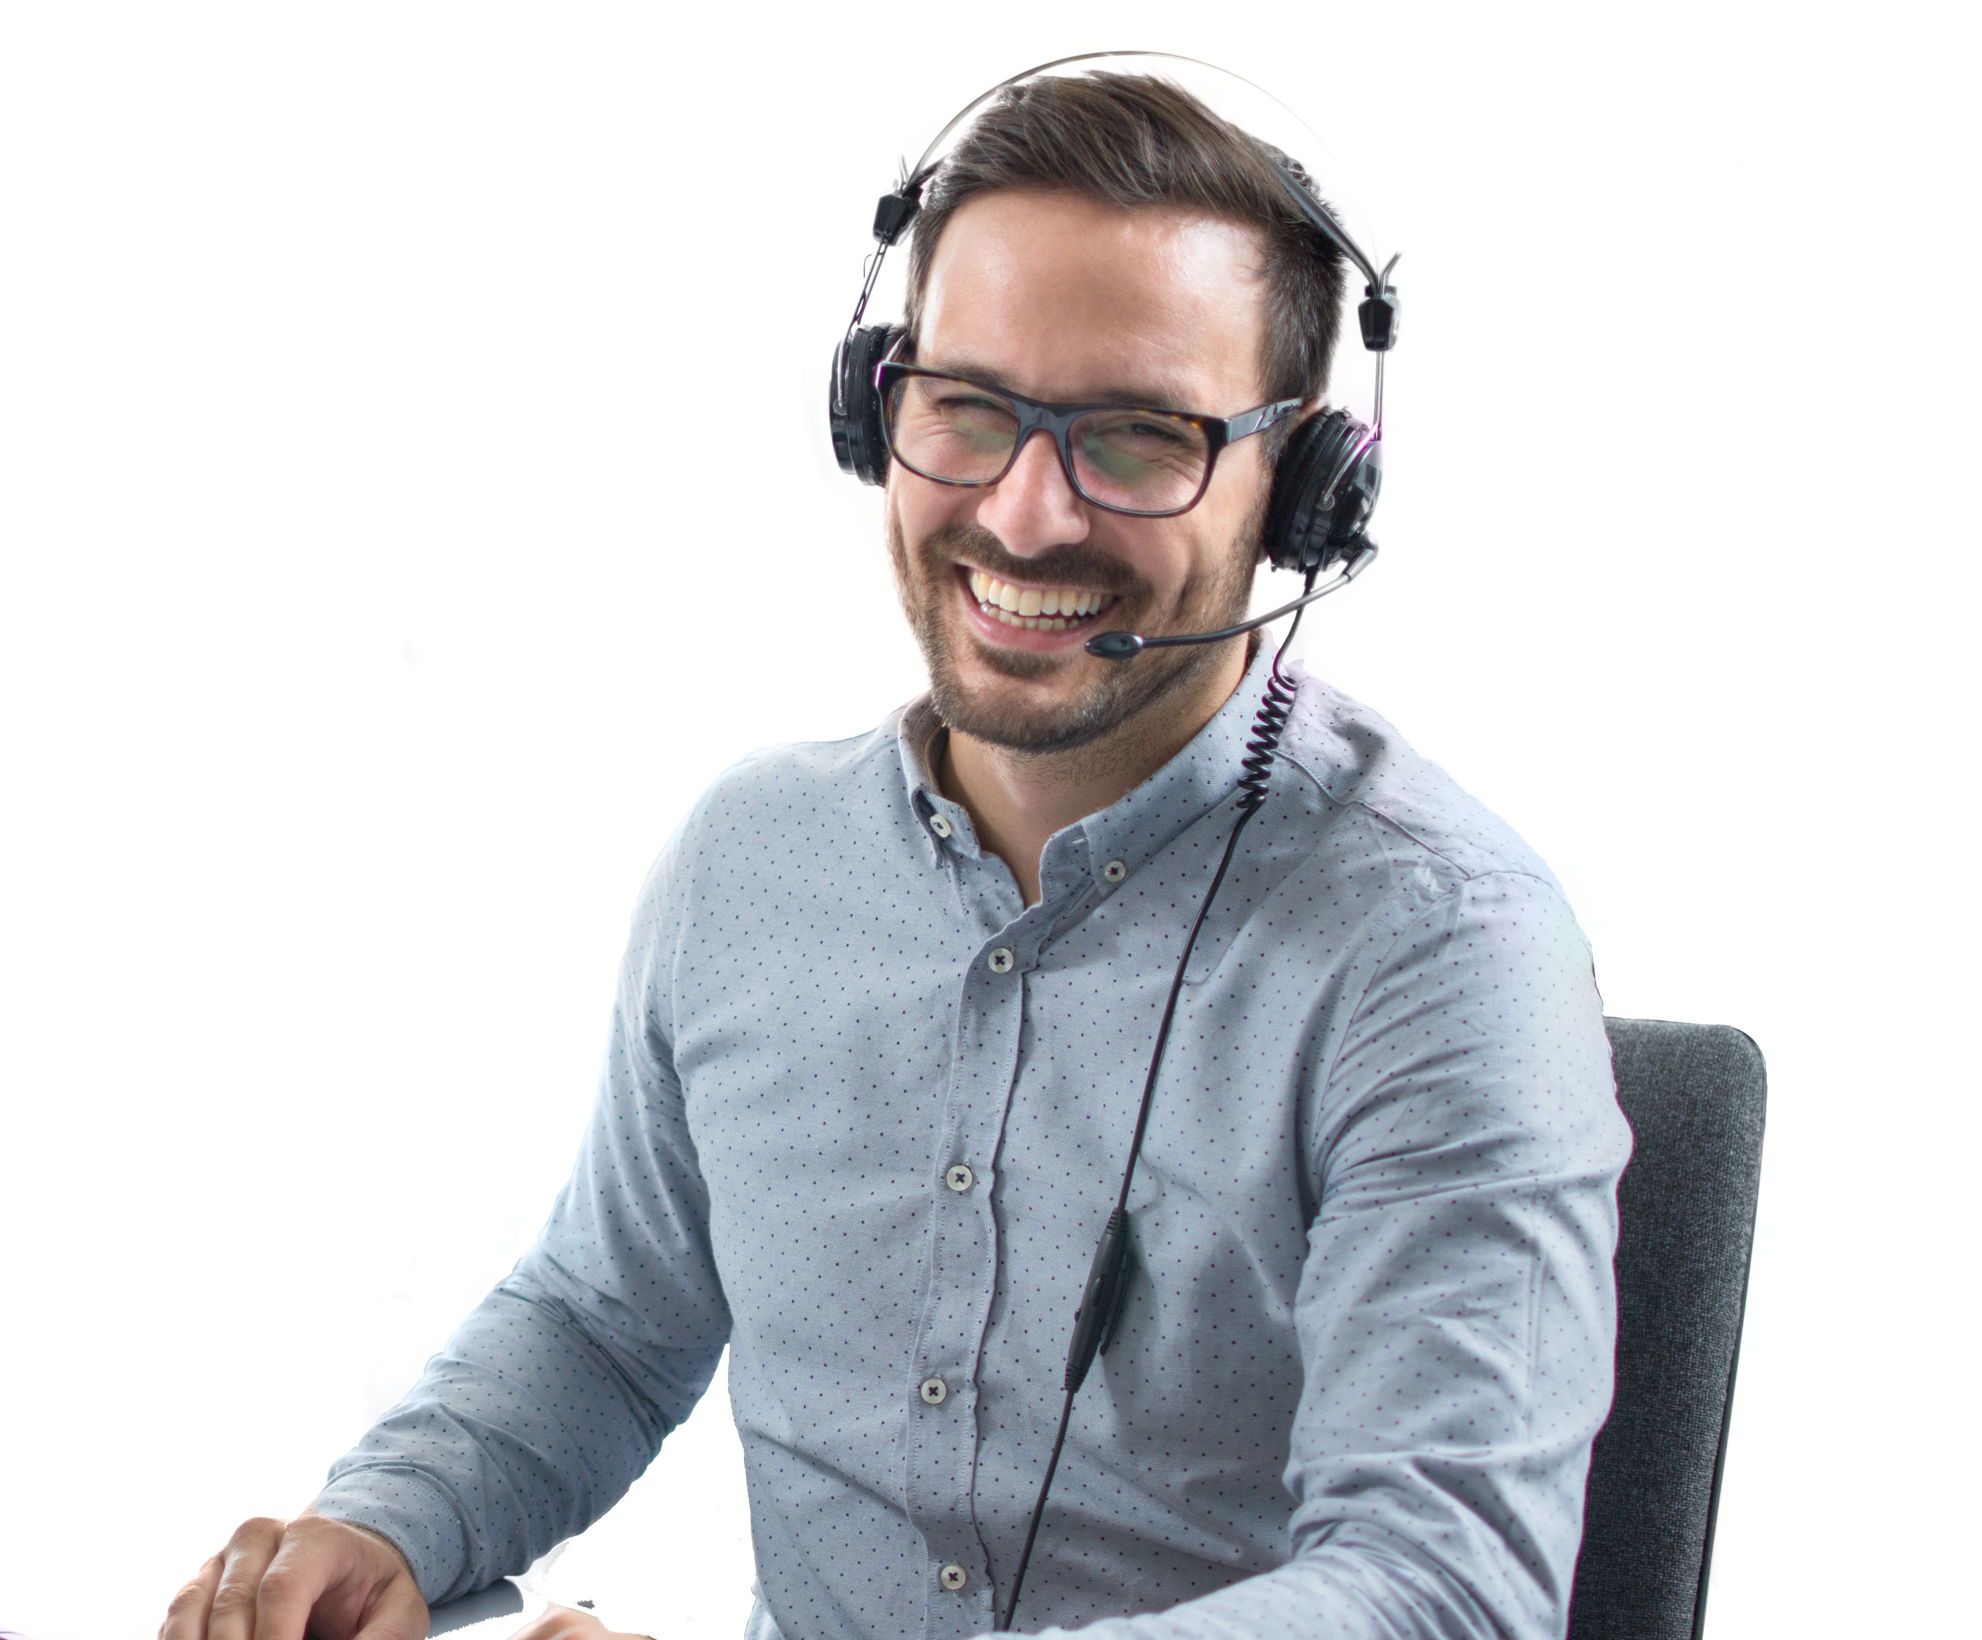
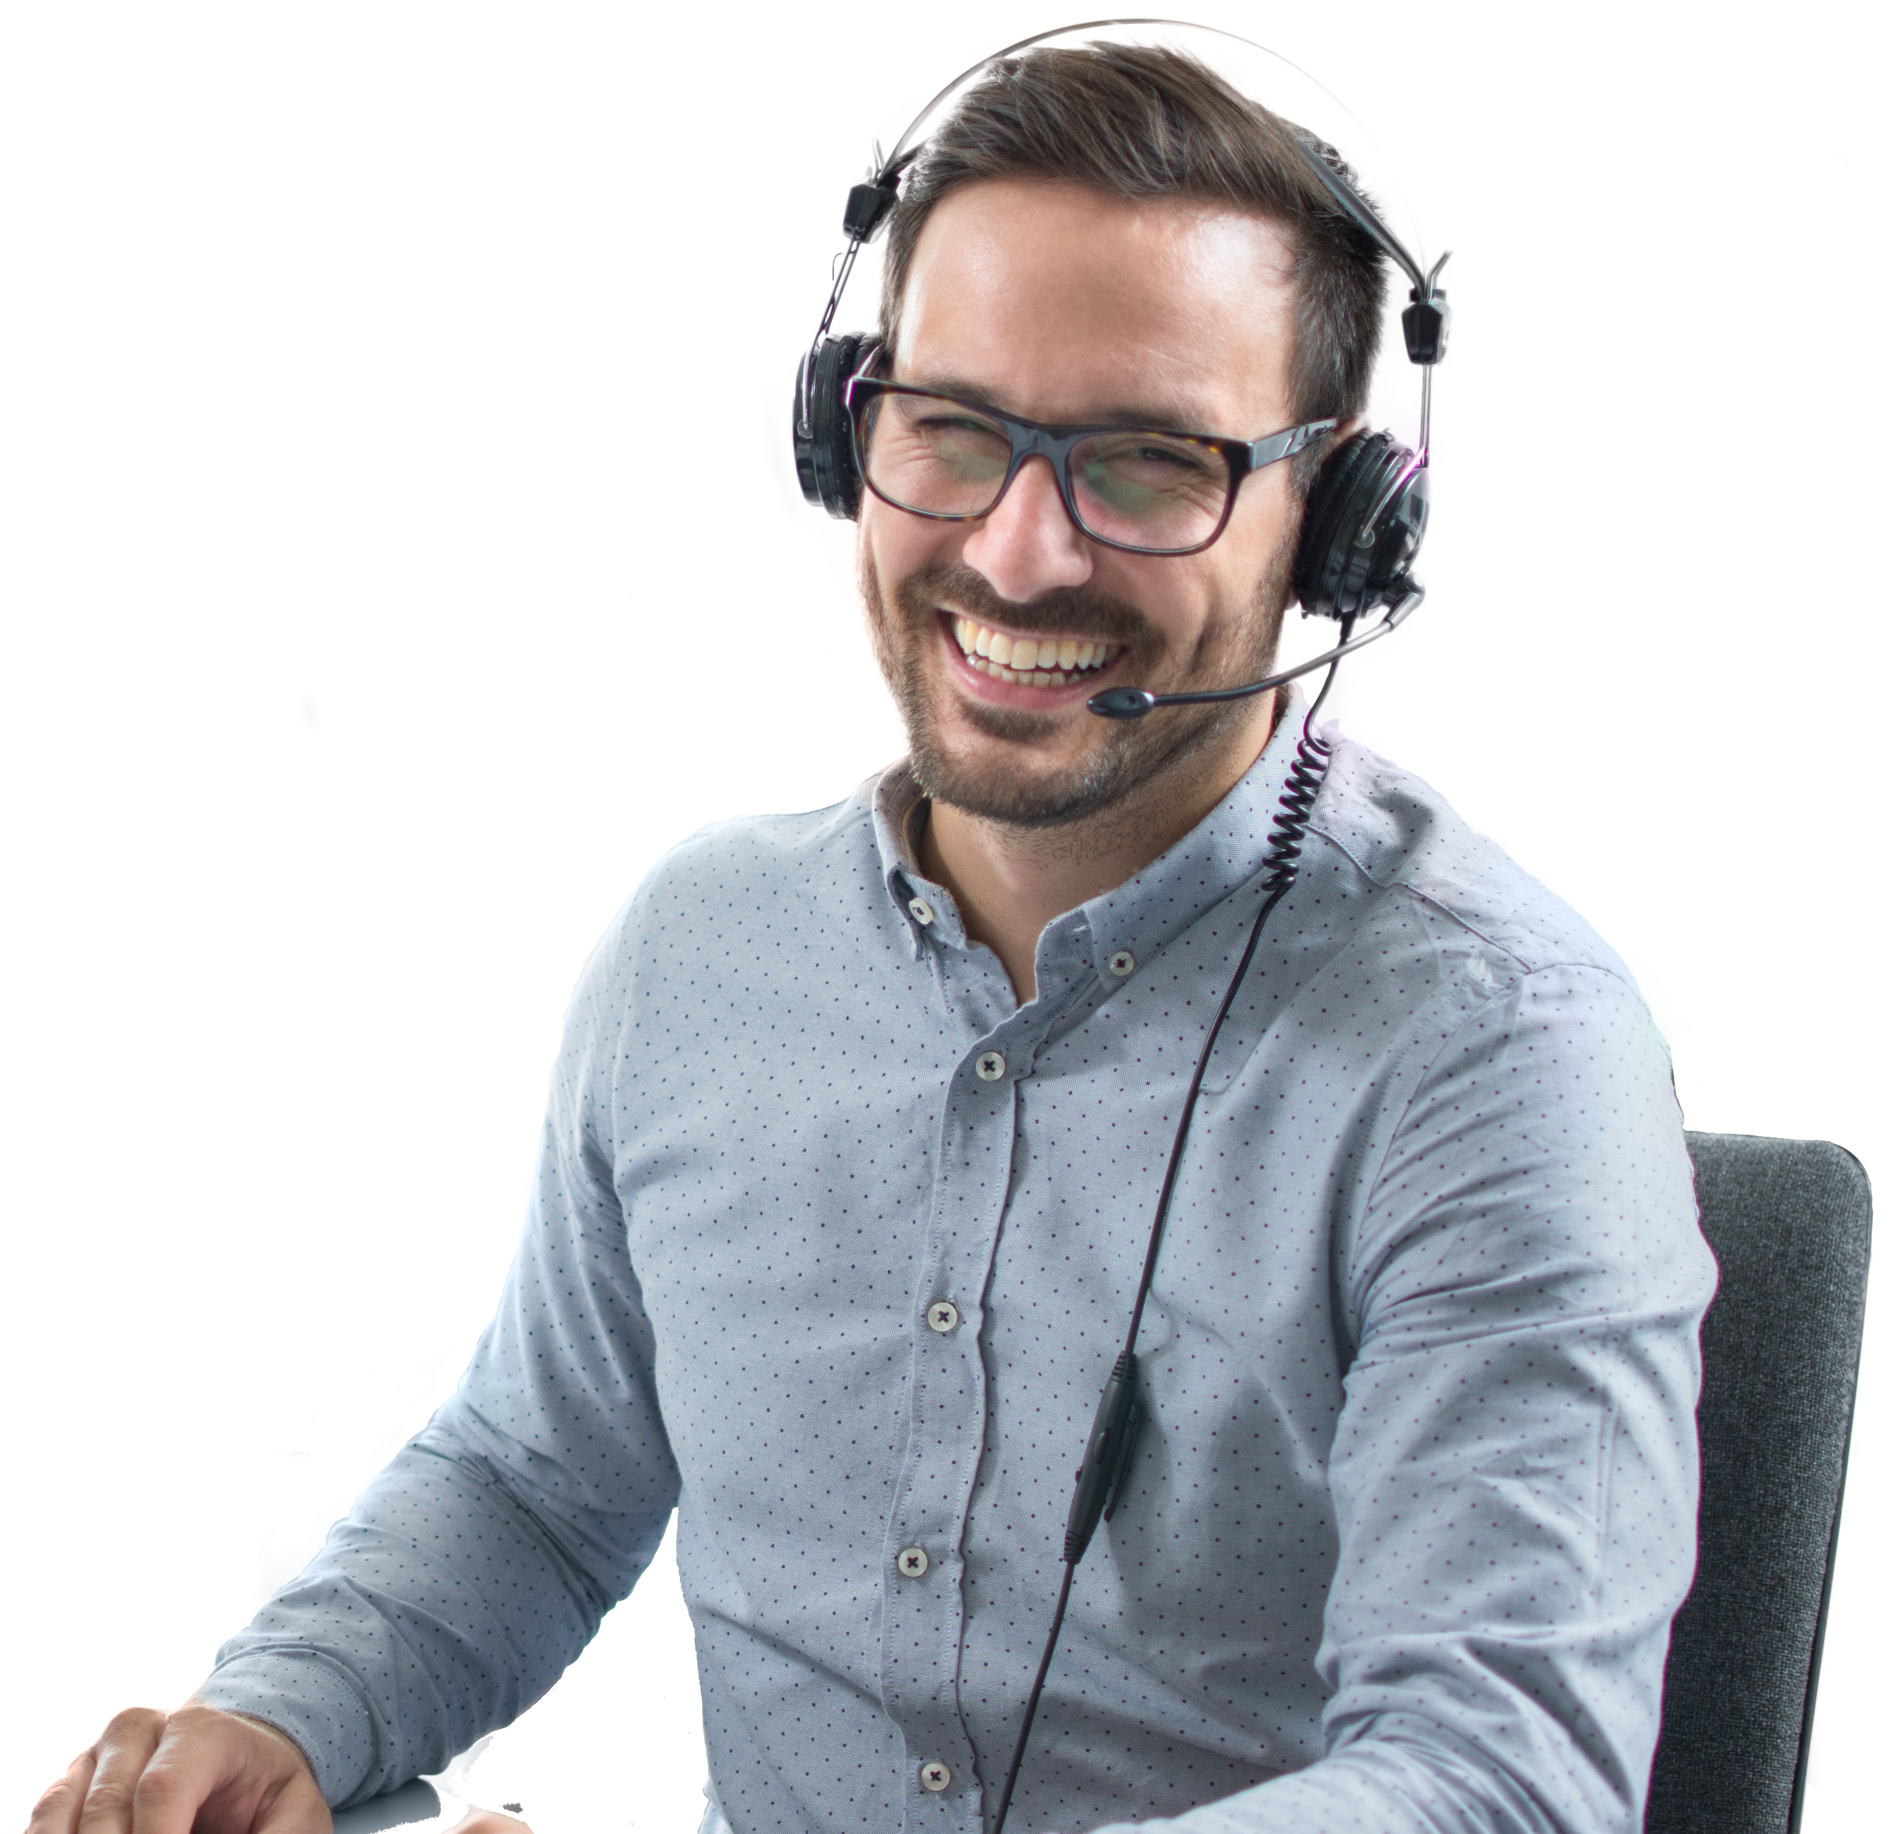
update operator images

diff --git a/index.html b/index.html
@@ -656,7 +656,7 @@
                                 bottom: 0px;
                                 right: 50%;
                                 width: 50%;
-                                max-width: 500px;
+                                max-width: 700px;
                             }
 
                             .pin_bottom_right {
@@ -778,7 +778,7 @@
                                                 style="min-height: 500px;">
                                                 <div>
                                                     <img class="pin_bottom_left_hero mx-auto mb-2"
-                                                        src="Images_2/Image_Nidia_DSO_Accounts_Hero_2019.png"
+                                                        src="Images_2/Image_Male_Operator_DSO_Accounts_Hero_2019.png"
                                                         alt="Friendly Help">
                                                 </div>
                                             </div>
@@ -806,7 +806,7 @@
                                                 style="min-height: 400px;">
                                                 <div>
                                                     <img class="pin_bottom mx-auto mb-2"
-                                                        src="Images_2/Image_Nidia_DSO_Accounts_Hero_2019.png"
+                                                        src="Images_2/Image_Male_Operator_DSO_Accounts_Hero_2019.png""
                                                         alt="Friendly Help">
                                                 </div>
                                             </div>
@@ -1239,7 +1239,7 @@
                                             <div class="w-full md:w-1/2 float-none sm:float-left px-4 pt-8 pb-0 mx-0 hidden md:block">
                                                 <div>
                                                     <img class="mx-auto pin_bottom_left"
-                                                        src="Images_2/Image_Male_Operator_DSO_Accounts_Hero_2019.png"
+                                                        src="Images_2/Image_Female_Operator_DSO_Accounts_Hero_2019.png"
                                                         alt="Phone Operator">
                                                 </div>
                                             </div>
@@ -1263,7 +1263,7 @@
                                                 style="min-height: 400px;">
                                                 <div>
                                                     <img class="pin_bottom mx-auto"
-                                                        src="Images_2/Image_Male_Operator_DSO_Accounts_Hero_2019.png"
+                                                        src="Images_2/Image_Female_Operator_DSO_Accounts_Hero_2019.png"
                                                         alt="Friendly Help">
                                                 </div>
                                             </div>
